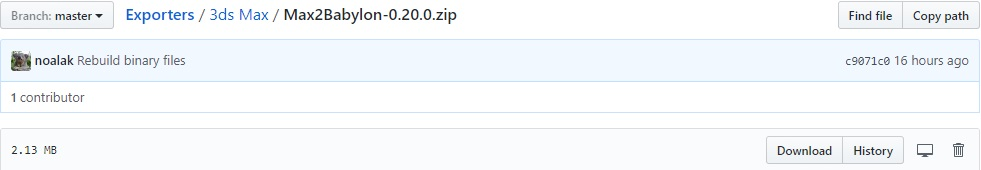
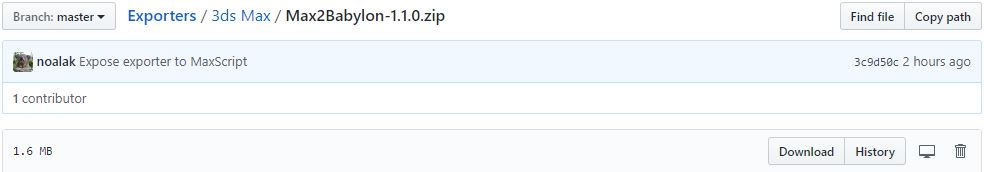
Add 'Export with MaxScript' section

diff --git a/content/resources/Exporter/3DSMax.md b/content/resources/Exporter/3DSMax.md
@@ -8,7 +8,7 @@ The plugin is designed for 3DS Max 2015 or later. To download it, go to the Gith
 
 ![github](/img/exporters/3DSMax/1_github.jpg)
 
-In this folder, you can find the source code of the exporter if you want to update it, and a zip file _Max2Babylon-XX.zip_ (where XX is the exporter version, currently 0.20.0). Click on the zip file, and click on the _Download_ button. 
+In this folder, you can find the source code of the exporter if you want to update it, and a zip file _Max2Babylon-XX.zip_ (where XX is the exporter version, currently 1.1.0). Click on the zip file, and click on the _Download_ button. 
 
 ![github download](/img/exporters/3DSMax/2_github_dl.jpg)
 
@@ -163,6 +163,17 @@ The _Export_ button should be used to create the Babylon file representing your 
 As babylon.js script is retrieved directly from the official website directly, you should have internet access in order to correctly use Export & Run.  
 
 The log panel indicates in real time which mesh has been exported, which material, and if there are any problems with these objects. 
+
+## Export with MaxScript
+
+You can also export the scene using MaxScript. A sample script file is available [here](https://github.com/BabylonJS/Exporters/blob/master/3ds%20Max/MaxScripts/Max2Babylon.ms).
+
+You will need to update the path to your babylon dll and the output path.
+
+All parameters are editable. Default values are the same as in the exporter window except for _autoSave3dsMaxFile_ which is false.
+
+Logs are limited to errors, warnings and core messages to avoid excessive amount of prints.
+
 
 # What you should know
 
